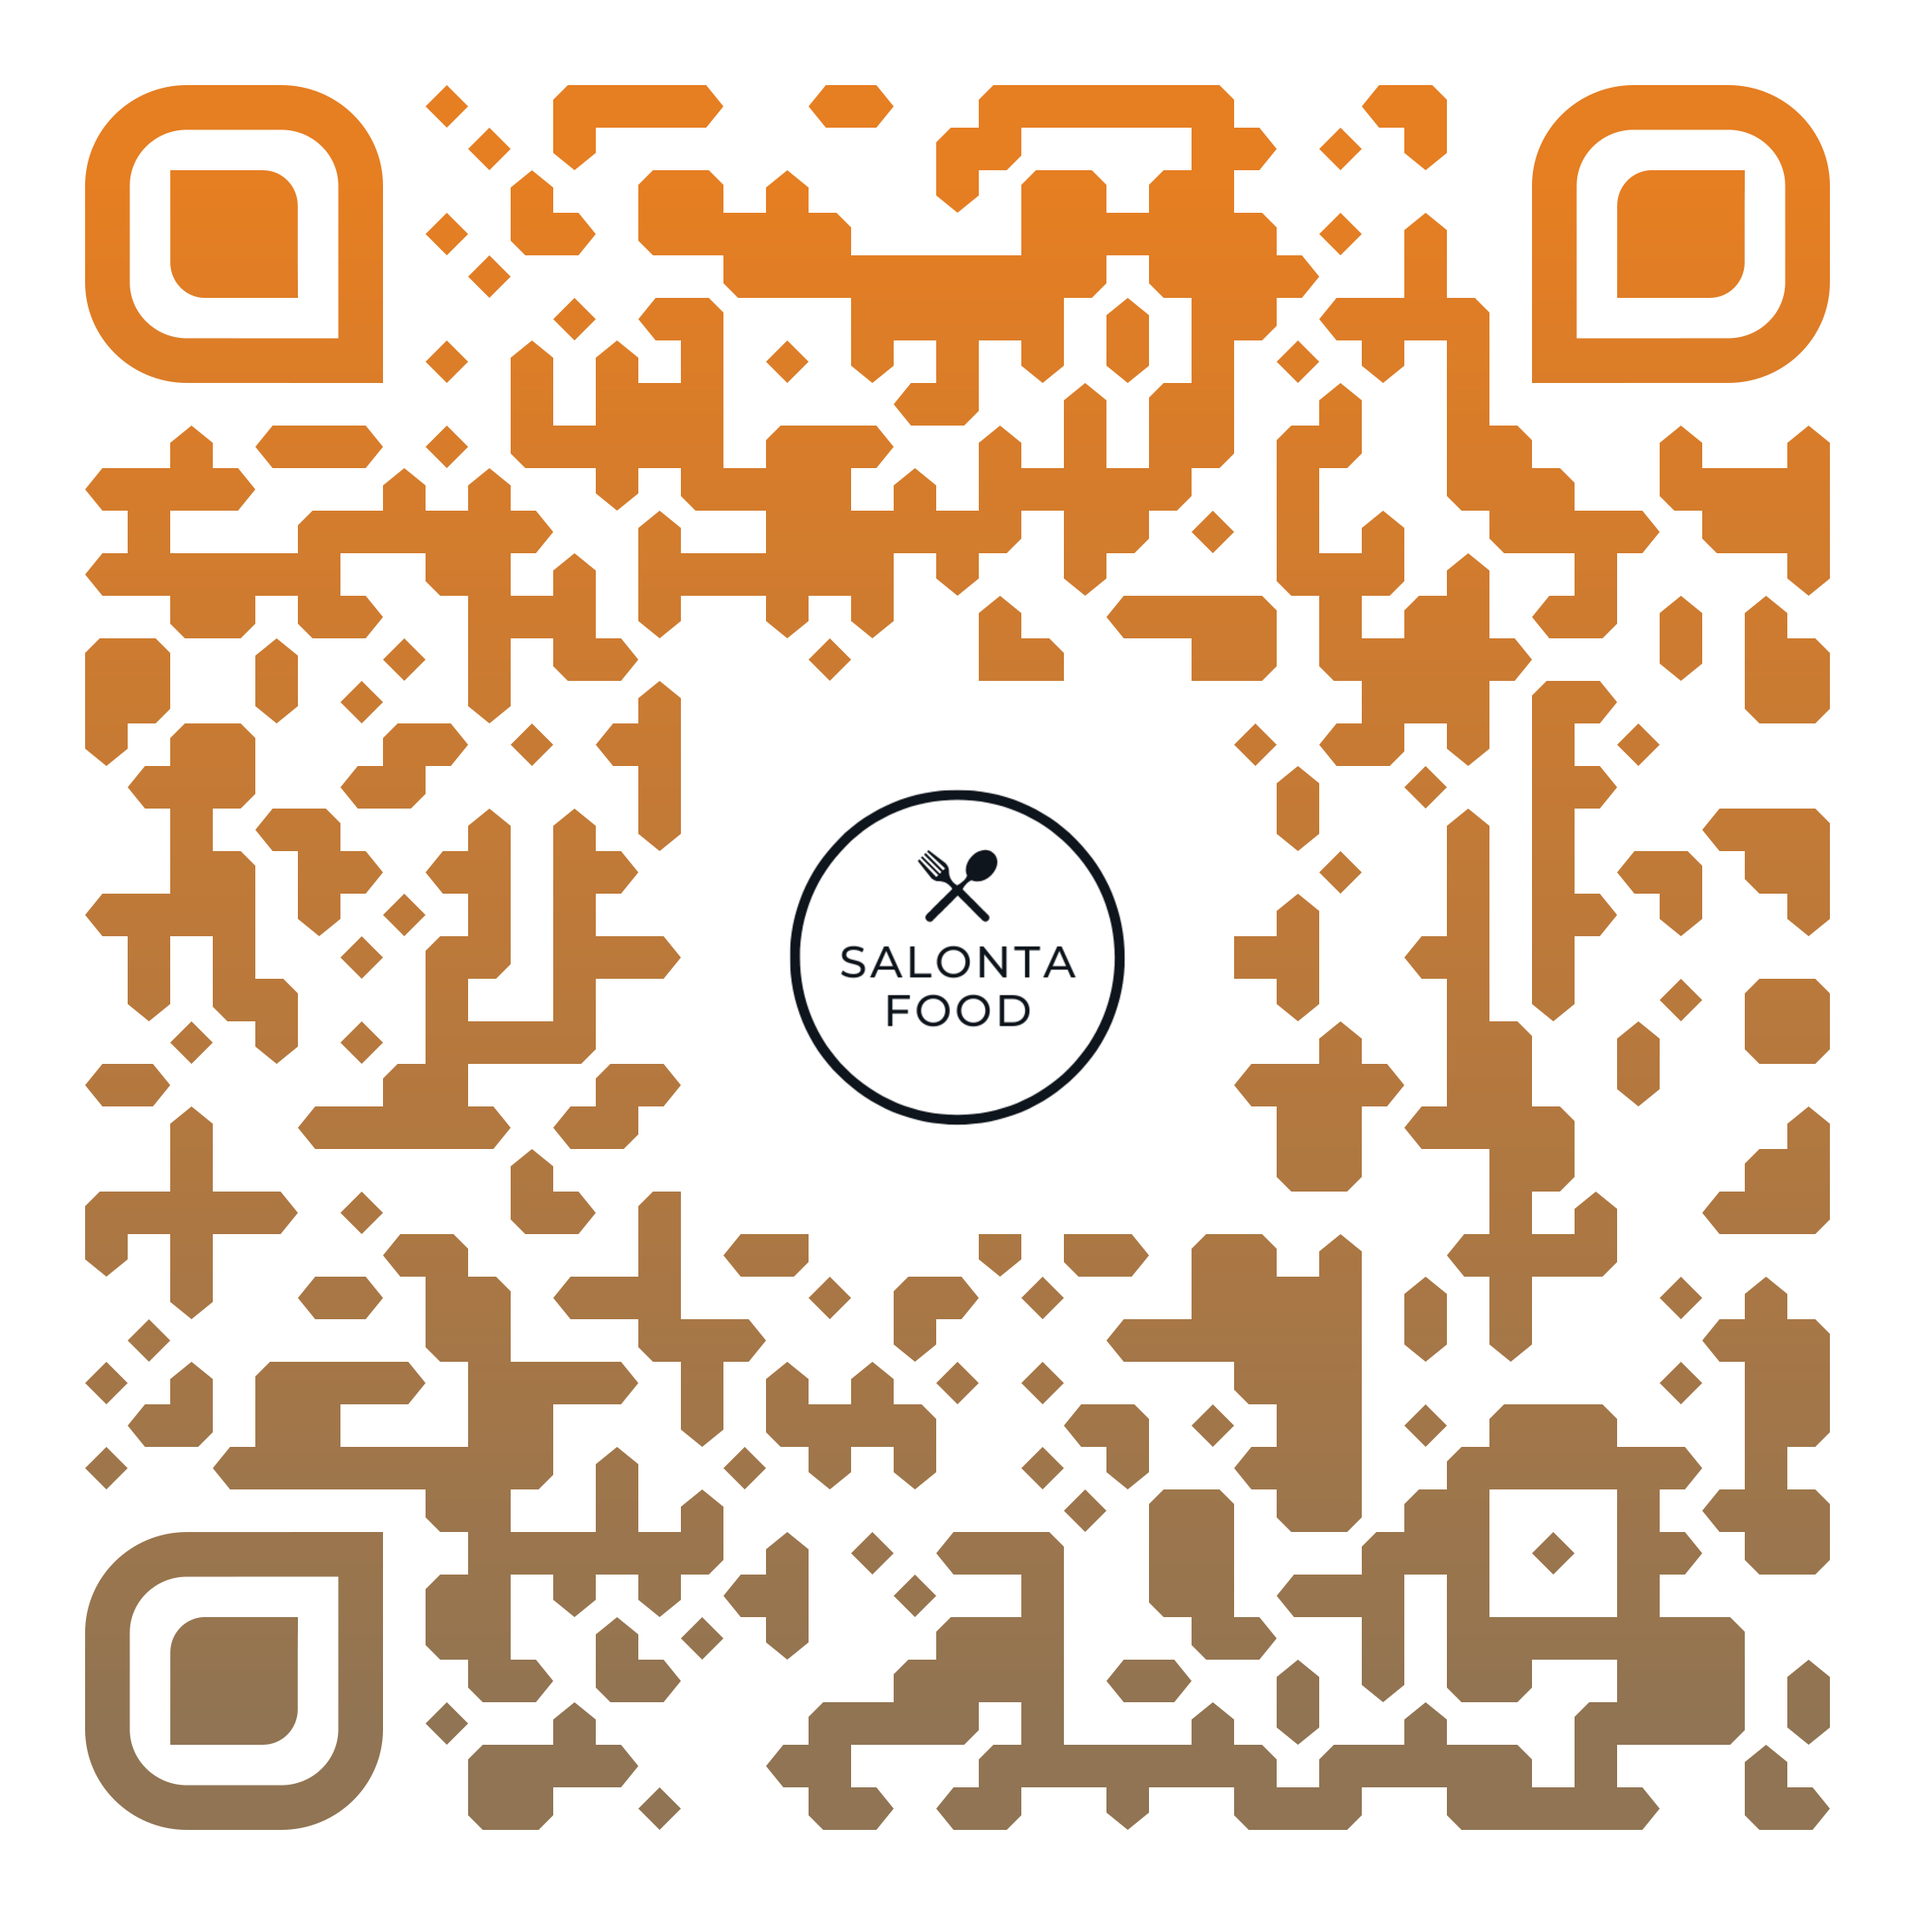
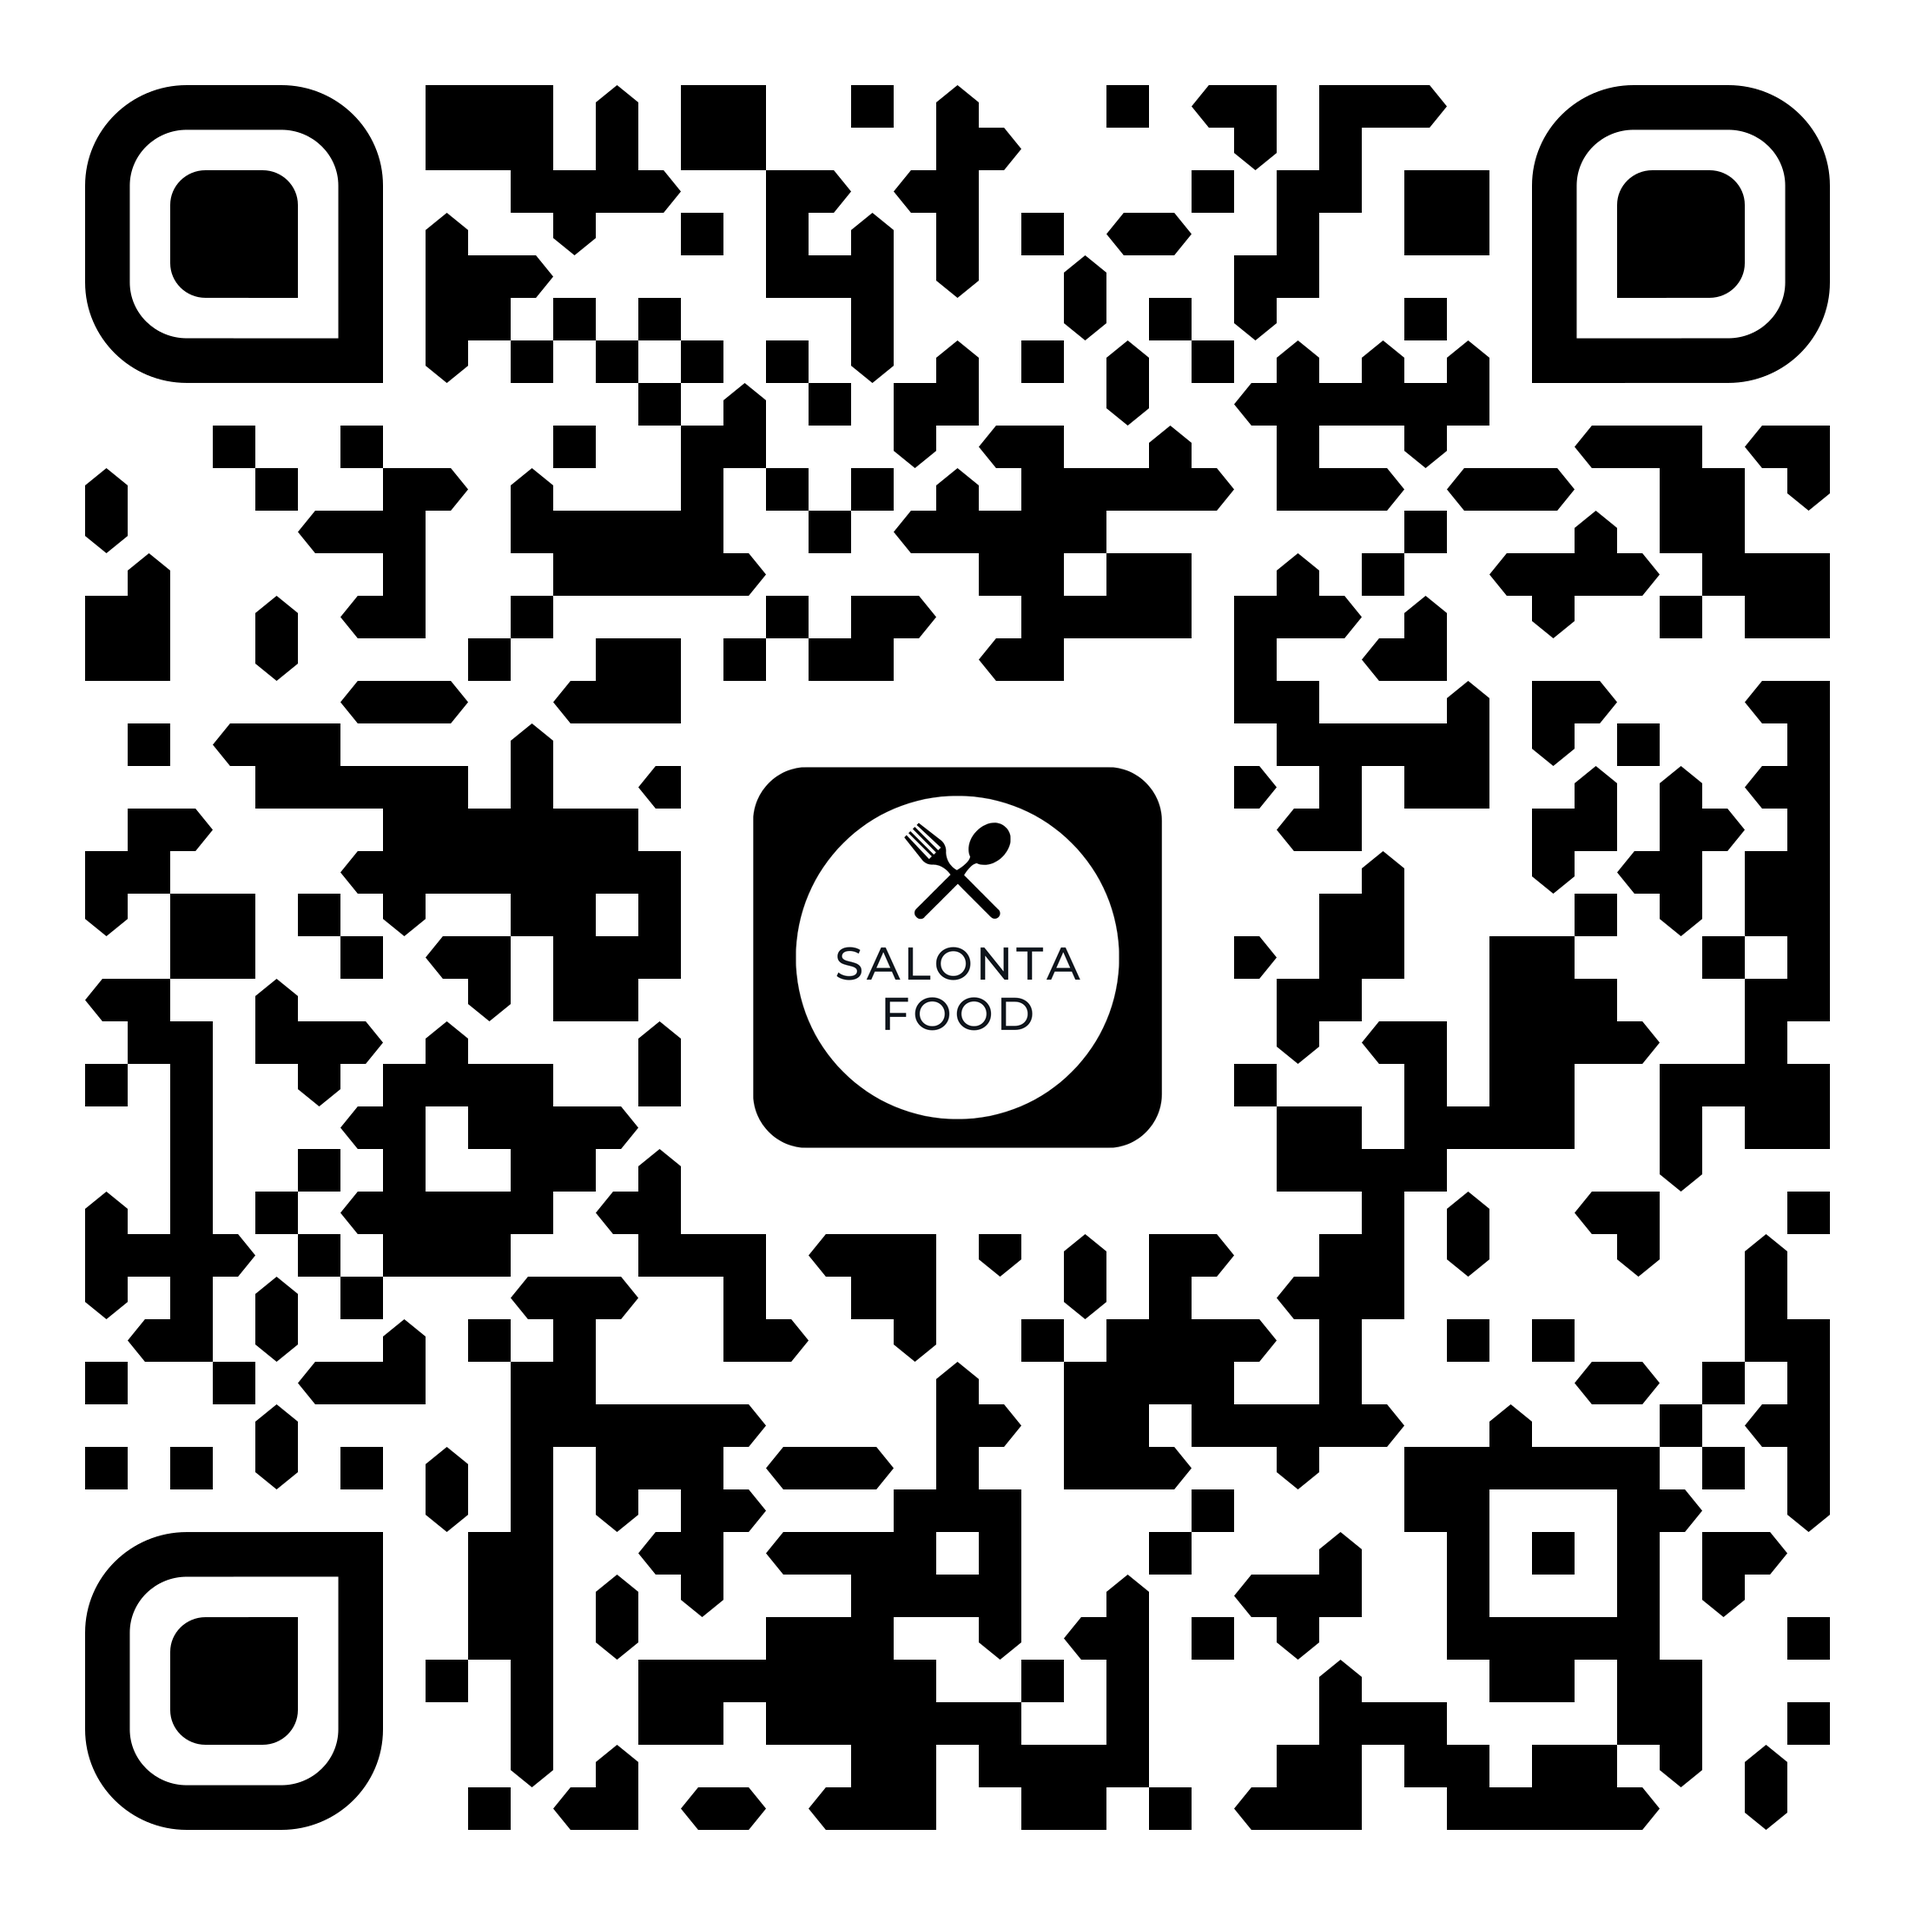
QR Update + Button redirect

diff --git a/index.html b/index.html
@@ -15,12 +15,12 @@
       <div>
         <h3>Scan for iOS</h3>
         <img src="assets/qr-ios.png" alt="QR Code iOS" />
-        <a class="btn" href="">Coming Soon</a>
+        <a class="btn" href="https://apps.apple.com/us/app/salontafood/id6751299599">Download on App Store</a>
       </div>
       <div>
         <h3>Scan for Android</h3>
         <img src="assets/qr-android.png" alt="QR Code Android" />
-        <a class="btn" href="https://play.google.com/store/apps/details?id=com.salontafood.app">Download on Google Play</a>
+        <a class="btn" href="https://play.google.com/store/apps/details?id=com.salontafood.app&pcampaignid=web_share">Download on Google Play</a>
       </div>
     </div>
   </div>
